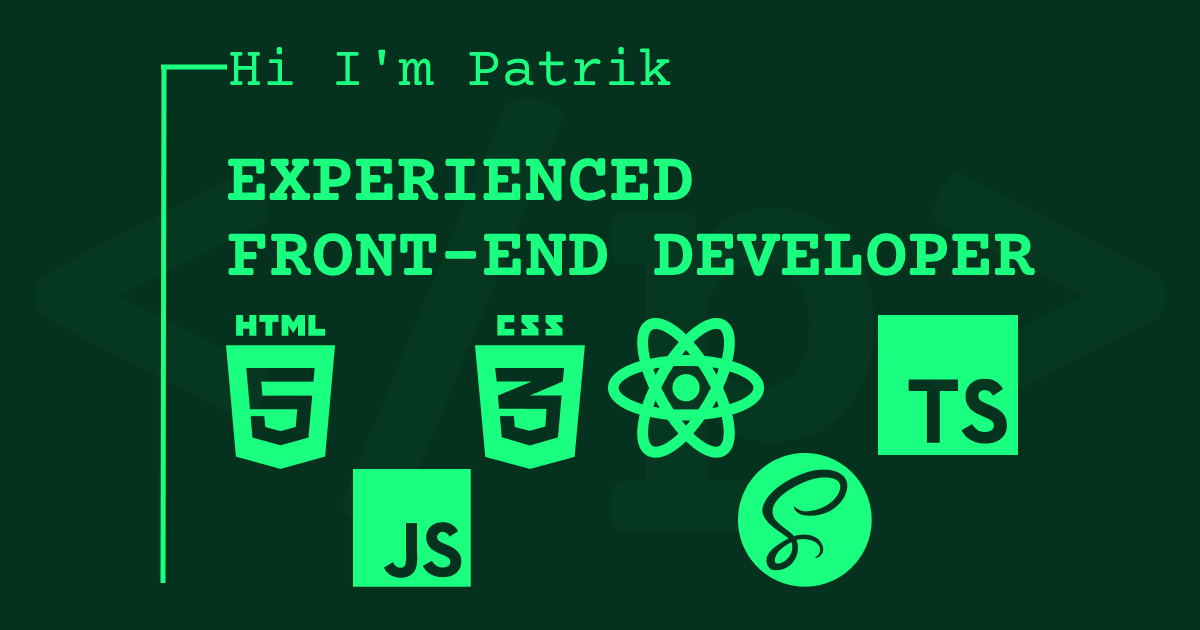
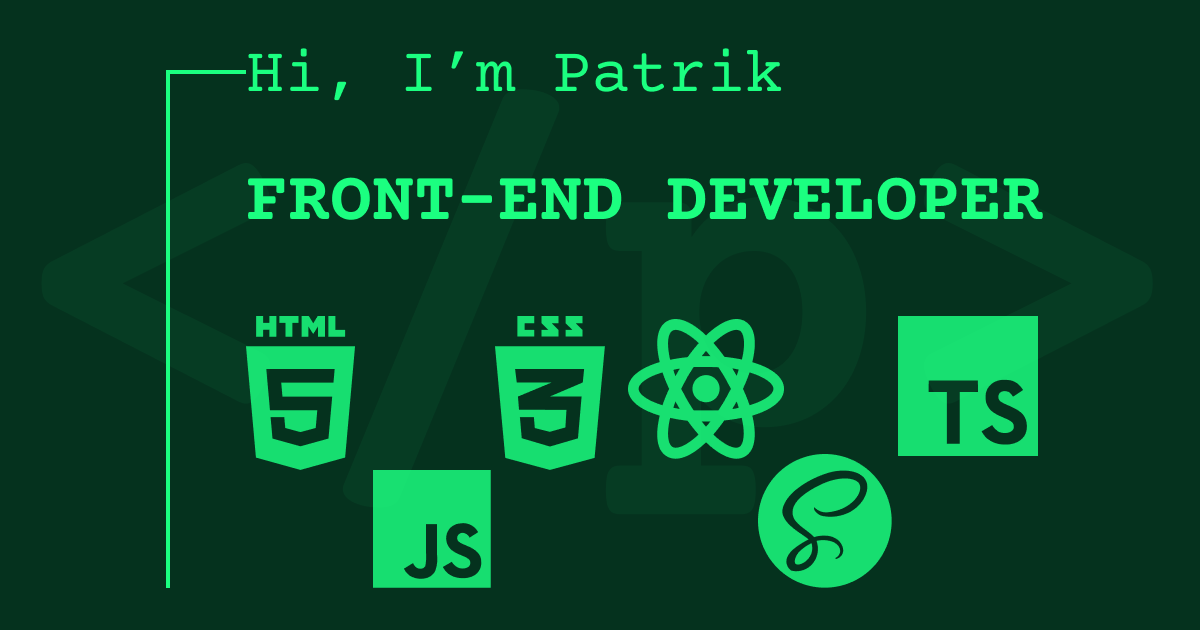
Small Design & Copy changes

Changed region(s): [[0.185, 0.4825, 0.8633, 0.9349], [0.185, 0.2413, 0.8633, 0.4524], [0.1233, 0.0603, 0.6475, 0.9349]]

diff --git a/pages/about/index.tsx b/pages/about/index.tsx
@@ -7,7 +7,7 @@ import boyComputer from "@/public/images/boyComputer.png";
 import boyReading from "@/public/images/boyReading.gif";
 import Link from "@/lib/link";
 import computer from "@/public/images/experience.png";
-import teamwork from "@/public/images/teamwork.png";
+import techBoy from "@/public/images/tech-boy.png";
 import AboutSection from "@/components/AboutSection";
 import SkillsRadar from "@/components/SkillsRadar";
 import AboutLinks from "@/components/AboutLinks";
@@ -34,17 +34,18 @@ export default function About() {
           <h1>Patrik Potocny</h1>
           <p>
             Front-end developer with 1+ year of experience in website and web
-            application development. I specialize in turning an idea into a
-            fully functional website or web application that provides an
-            exceptional user experience and is visually appealing.
+            application development focusing on React applications. I specialize
+            in turning an idea into a fully functional website or web
+            application that provides an exceptional user experience and is
+            visually appealing.
           </p>
           <p>
-            I am eager to continue expanding my skillset and work with talented
-            individuals to bring ideas to life. I am committed to delivering
-            top-quality code and exceptional user experiences.
+            I love learning and would like to continue doing so alongside
+            talented individuals. I am committed to delivering top-quality code
+            and exceptional user experiences.
           </p>
 
-          <p>Give me a problem and i'll give you a solution.</p>
+          <p>Give me a problem and I'll give you a solution.</p>
         </AboutSection>
 
         <AboutLinks />
@@ -52,7 +53,7 @@ export default function About() {
         <AboutSection imageUrl={computer} applyFilter>
           <h1>Experience</h1>
           <p>
-            During the past year, I have focused on translating designs into
+            During the past year, I have focused on translating ideas into
             fully-functional websites and web applications, with my latest
             project being:
           </p>
@@ -82,7 +83,7 @@ export default function About() {
         <AboutSection>
           <h1>Education</h1>
           <p>
-            <strong>GOOGLE UX DESIGN</strong> - course tought me the
+            <strong>GOOGLE UX DESIGN</strong> - course taught me the
             fundamentals of UX design, including research, prototyping, and
             testing, to create user-centered digital experiences -{" "}
             <a
@@ -98,31 +99,35 @@ export default function About() {
         <AboutSection imageUrl={boyReading} applyFilter>
           <h1>My Approach</h1>
           <p>
-            When it comes to problem-solving, I take a methodical and strategic
-            approach, breaking down complex issues into manageable steps and
-            leveraging my skills to provide the best possible solution.
+            When it comes to creating web applications, my approach is a
+            combination of creativity and problem-solving. I begin by analyzing
+            the needs and goals of the project, and then work to create a design
+            that meets those goals. During development, I take a methodical and
+            strategic approach, breaking down complex issues into smaller steps
+            and leveraging my skills to provide the best possible solution.
           </p>
           <p>
-            As a developer, I understand the importance of soft skills, and I
-            strive to demonstrate them in every work environment. Communication
-            is key to the success of any project and and I make sure it's clear
-            and concise. Finally, adaptability is essential in the fast-paced
-            world of front-end development, and I am always eager to learn and
-            grow, keeping up-to-date with the latest trends and technologies in
-            the field.
+            As a developer, I understand the importance of soft skills such as
+            communication and teamwork, and I strive to demonstrate them in
+            every work environment.
           </p>
         </AboutSection>
 
-        <AboutSection imageUrl={teamwork} applyFilter>
-          <h1>Goal</h1>
+        <AboutSection imageUrl={techBoy} applyFilter>
+          <h1>My Journey</h1>
           <p>
-            My ultimate goal is to become a lead developer in a team of talented
-            and like-minded individuals. I strive to be the driving force behind
-            successful projects and to take on a leadership role in creating
-            innovative solutions that push the boundaries of what is possible.
-            With my passion for learning and my eagerness to take on new
-            challenges, I am confident that I can achieve this goal and make a
-            positive impact on any team I am a part of.
+            I have had a lifelong interest in technology, starting from a young
+            age when I enjoyed building and tinkering with various gadgets and
+            machines. From building drones to constructing my own motorcycle, I
+            loved the challenge of solving complex problems and seeing my
+            creations come to life. It was through this love of building and
+            creating that I discovered my passion for programming and the
+            endless possibilities it offers for creating amazing projects.
+          </p>
+          <p>
+            My ultimate goal is to become a lead front-end developer and lead a
+            team of talented individuals, bringing my creativity and
+            problem-solving skills to projects that make a positive impact.
           </p>
         </AboutSection>
 

diff --git a/pages/_document.tsx b/pages/_document.tsx
@@ -7,18 +7,18 @@ export default function Document() {
         <meta
           name="description"
           content="Hi, I'm Patrik,
-          experienced Front-End Developer with a passion for creating
+          Front-End Developer with a passion for creating
           visually pleasing websites and web applications, that deliver
           exceptional user experiences."
         />
 
         <meta name="theme-color" content="#05321e" />
 
-        <meta property="og:title" content="Experienced Front-End Developer" />
+        <meta property="og:title" content="Skilled Front-End Developer" />
         <meta
           property="og:description"
           content="Hi, I'm Patrik,
-          experienced Front-End Developer with a passion for creating
+          Front-End Developer with a passion for creating
           visually pleasing websites and web applications, that deliver
           exceptional user experiences."
         />

diff --git a/pages/index.tsx b/pages/index.tsx
@@ -83,9 +83,9 @@ export default function Home() {
                   transition={{ duration: 1 }}
                   className={styles.introduction}
                 >
-                  <span className={styles.firstWord}>Hi</span>, I'm Patrik,
-                  experienced Front-End Developer with a passion for creating
-                  visually pleasing websites and web applications, that deliver
+                  <span className={styles.firstWord}>Hi</span>, I'm Patrik.
+                  Front-End Developer with a passion for creating visually
+                  pleasing websites and web applications that deliver
                   exceptional user experiences. I am eager to continue expanding
                   my skillset and work with talented individuals to bring ideas
                   to life.

diff --git a/components/WelcomeScreen.tsx b/components/WelcomeScreen.tsx
@@ -17,16 +17,16 @@ export default function WelcomeScreen({
   return (
     <>
       <div className={`${styles.terminal} ${vt323.className}`}>
-        <TypeAnimation sequence={[1000, "Hello there..."]} cursor={false} />
+        <TypeAnimation sequence={[300, "Hello there..."]} cursor={false} />
         <TypeAnimation
-          sequence={[2500, "I've been expecting You"]}
+          sequence={[1500, "I've been expecting You"]}
           cursor={false}
         />
         <TypeAnimation
           sequence={[
-            4700,
+            3300,
             () => setShowAccessGranted(true),
-            500,
+            200,
             () => setShowMatrixRain(true),
             2500,
             () => setSeenWelcomePage(true),

diff --git a/styles/pages/CaseStudy.module.scss b/styles/pages/CaseStudy.module.scss
@@ -28,10 +28,7 @@
     .thumbnail {
       width: 100%;
       height: auto;
-
-      &:hover {
-        z-index: 55;
-      }
+      z-index: 55;
     }
 
     .technologies {
@@ -48,9 +45,8 @@
         border-bottom: none;
       }
     }
-
   }
-  
+
   .links {
     font-size: 1.3em;
     display: flex;
@@ -124,10 +120,7 @@
 
     img {
       position: relative;
-
-      &:hover {
-        z-index: 55;
-      }
+      z-index: 55;
     }
 
     pre,
